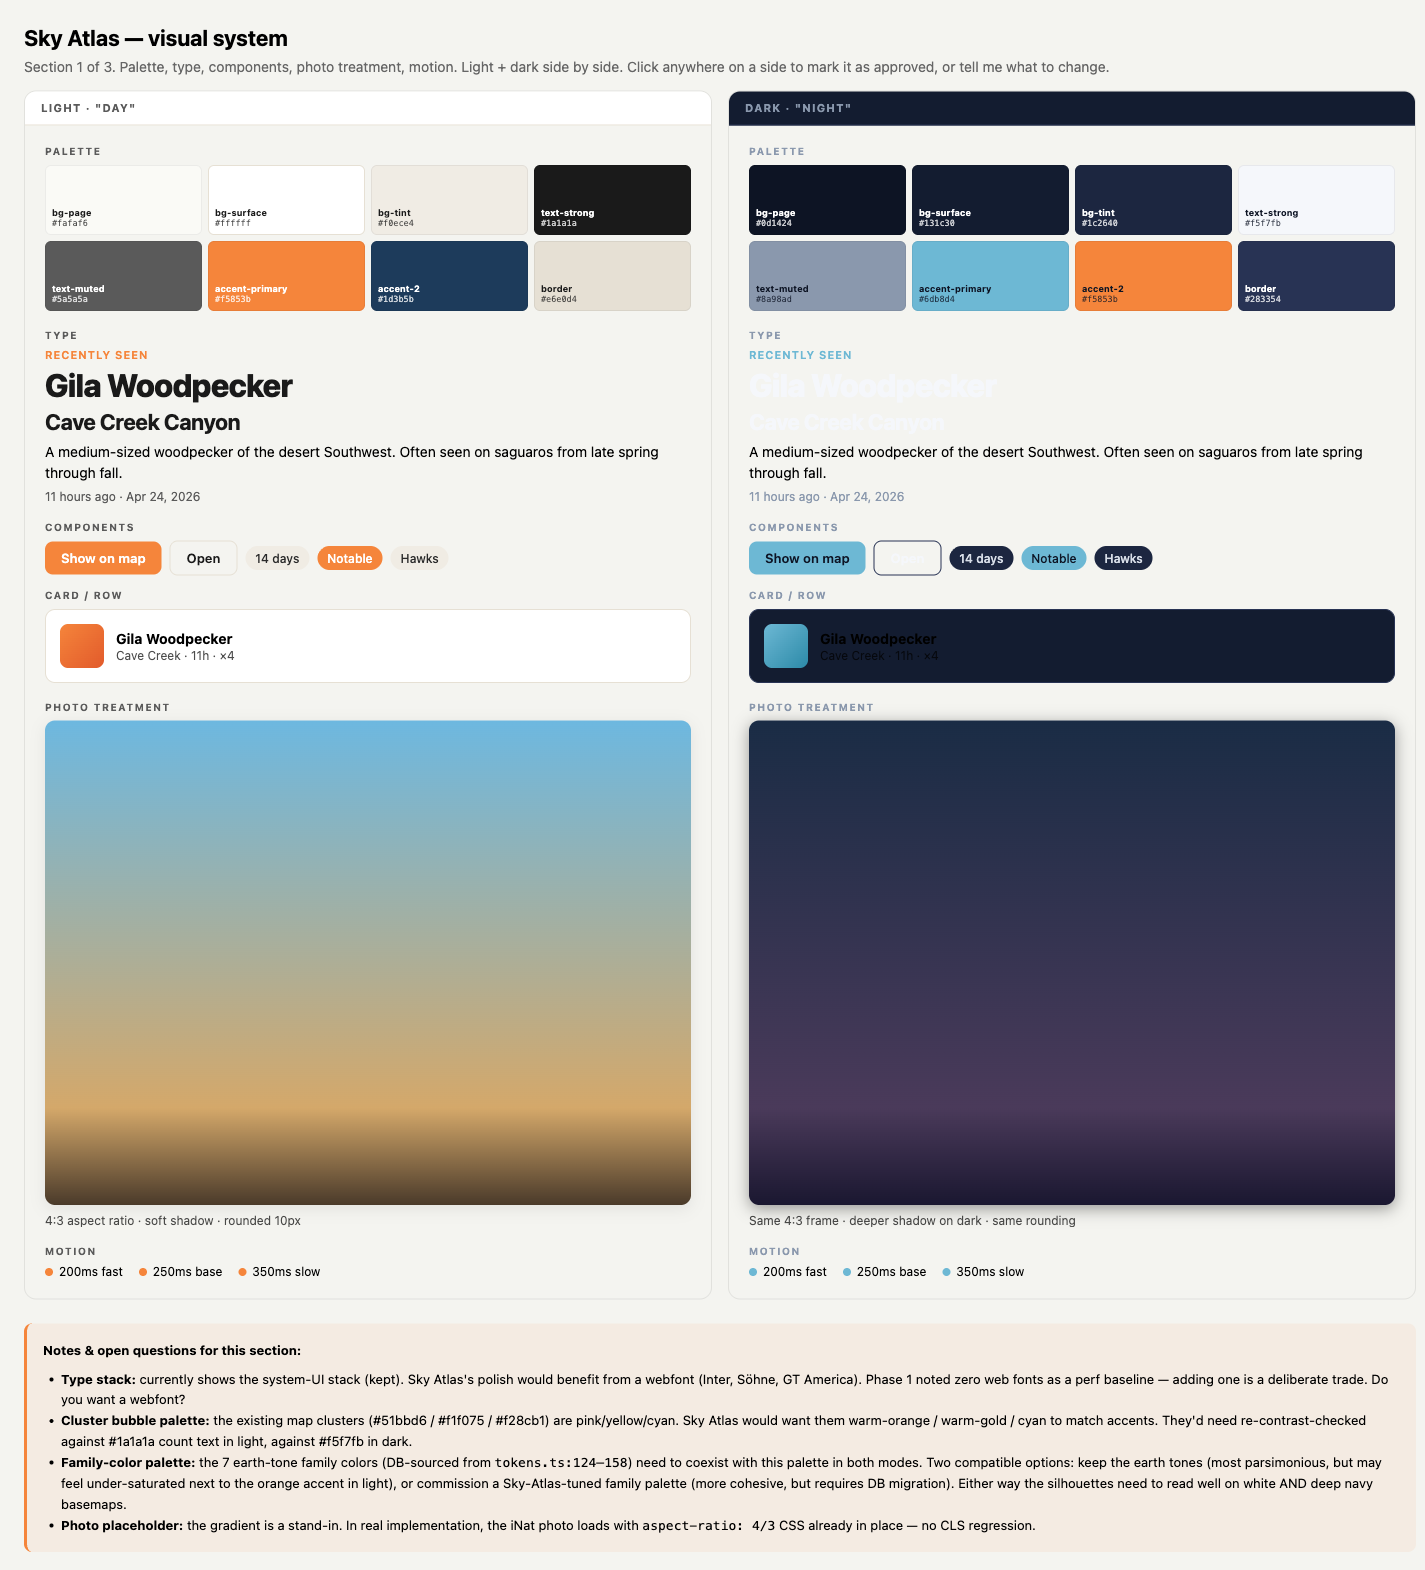
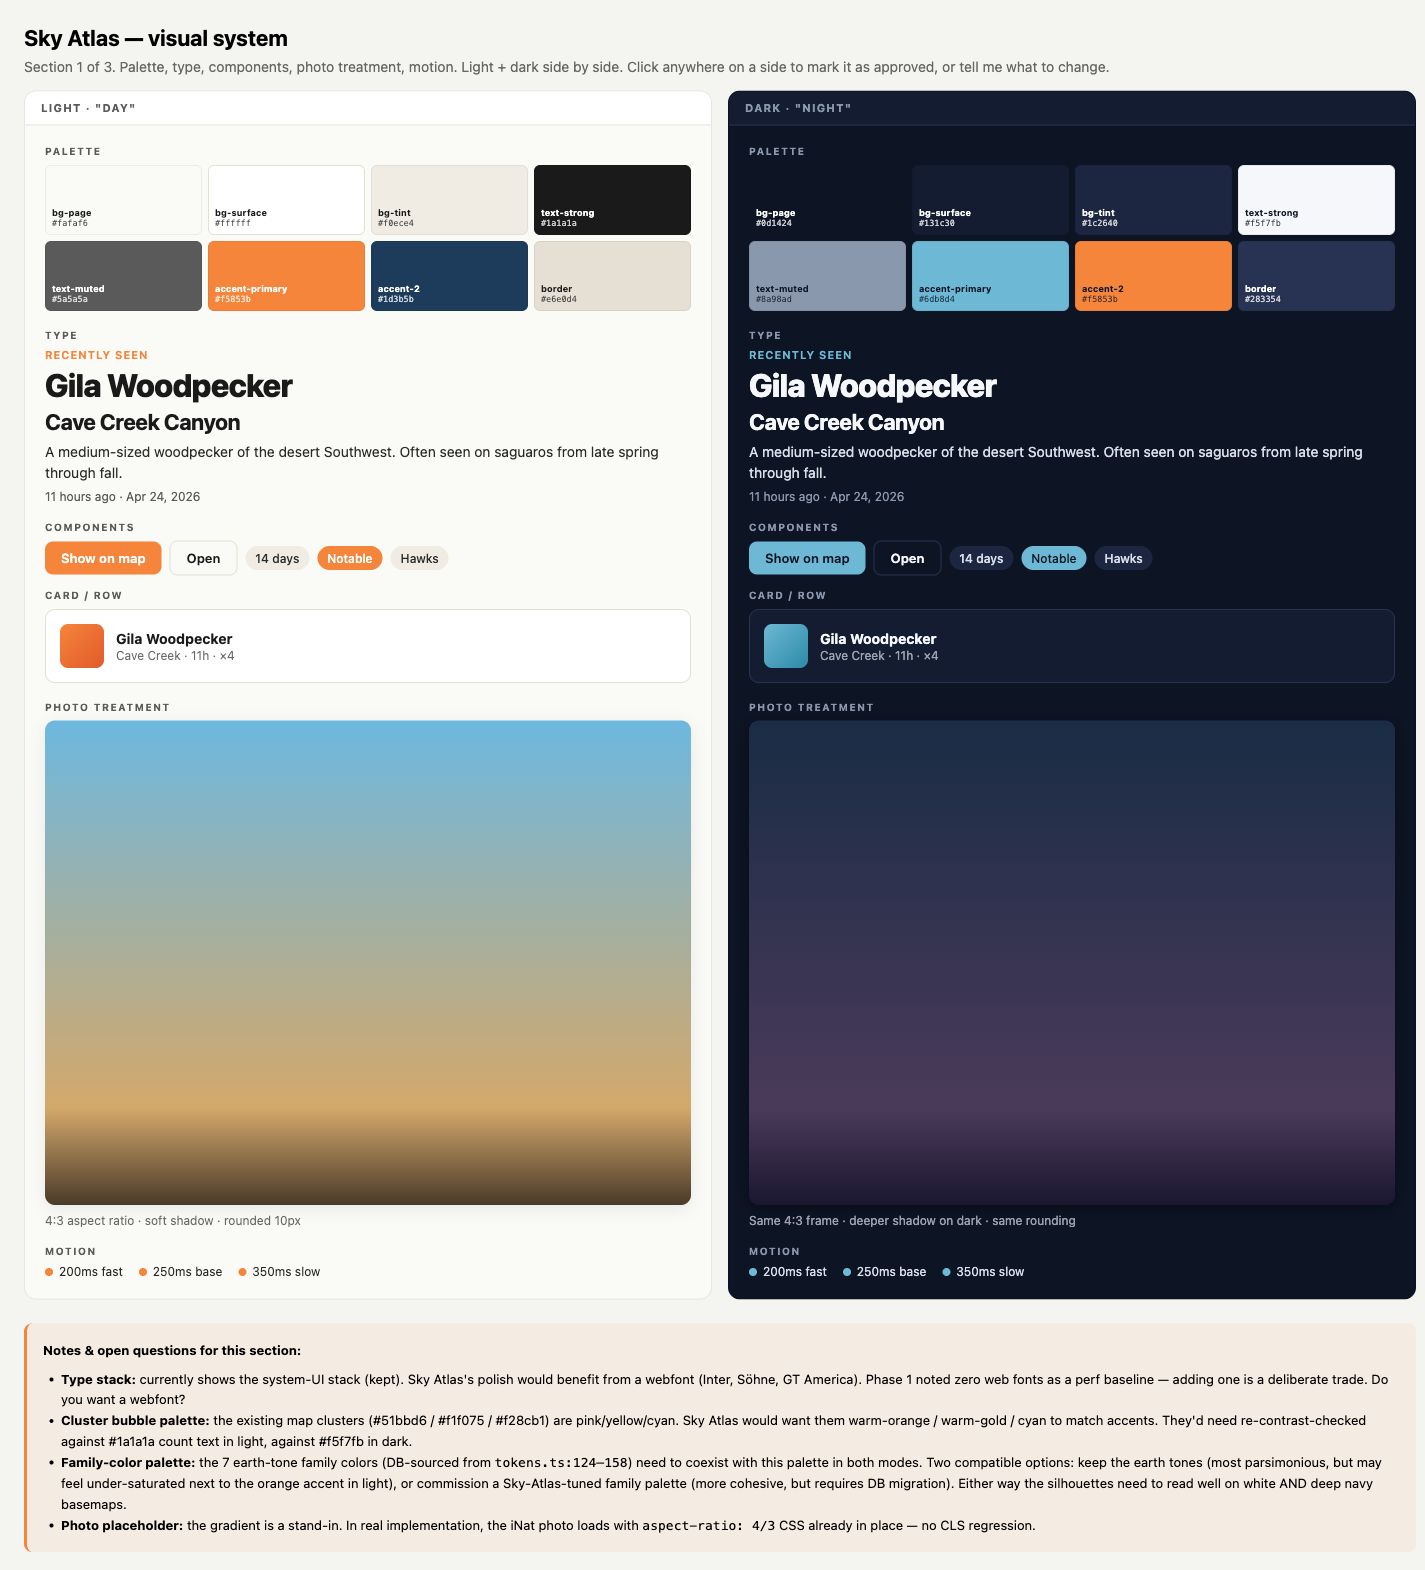
fix(design): system-poster dark-mode contrast (resolves #397 contrast comment) (#399)
* fix(design): system-poster dark-mode contrast (#397 user comment)

The Sky Atlas system poster had a CSS selector bug that caused two
contrast failures in dark mode:

- `.dark .mode-pane { background: var(--da-bg-page); color: ... }`
  used a descendant selector, but the HTML put `.dark` and `.mode-pane`
  on the SAME element (`<div class="card mode-pane dark">`). The
  selector therefore never matched, leaving the dark pane with
  `background: transparent` and inheriting `color: rgb(0,0,0)` (browser
  default black). Symptom: dark pane shows the page-cream background
  through, and all text inside the pane renders as black on dark.

- Same issue for `.light .mode-pane` (also same-element, also
  unmatched). Light mode happened to look acceptable because most child
  elements set their own colors explicitly.

Fix:
- Change `.dark .mode-pane` and `.light .mode-pane` to compound
  selectors `.mode-pane.dark` / `.mode-pane.light`.
- Add explicit `color` on `.card-row .row-name` for both modes (defense
  in depth — the row-name had no own-color and was vulnerable to any
  future cascade gap).
- Re-render `system-poster.png` from the corrected HTML.

Verified via `getComputedStyle`:
- darkPane.bg: was rgba(0,0,0,0) → now rgb(13,20,36)
- darkPane.color: was unset → now rgb(216,222,232)
- darkRowName.color: was rgb(0,0,0) → now rgb(245,247,251)
- All button + chip contrasts unchanged (those rules use real
  descendant relationships and were never affected).
[…]

Pull request: fix(design): system-poster dark-mode contrast (resolves #397 contrast comment)
## Diagrams

CSS specificity bug — the `.dark .mode-pane` selector requires `.dark` to be an ancestor, but the HTML places `.dark` and `.mode-pane` on the same element. Result: the dark-mode pane never gets its background/color rules applied; text falls back to browser-default black on a transparent (cream-show-through) background.

```mermaid
graph LR
    HTML["<div class='card mode-pane dark'>"]
    CSS_BAD[".dark .mode-pane { ... }<br/>(descendant — needs .dark on parent)"]
    CSS_GOOD[".mode-pane.dark { ... }<br/>(compound — same element)"]

    HTML -.->|target| CSS_BAD
    HTML -->|matches| CSS_GOOD

    CSS_BAD -.->|never matches| FAIL["bg: transparent<br/>color: rgb(0,0,0) inherited"]
    CSS_GOOD -->|now matches| WIN["bg: #0d1424<br/>color: #d8dee8 → row-name #f5f7fb"]

    style FAIL fill:#fee
    style WIN fill:#efe
```

## Summary

- **Bug.** Two CSS selectors in `sky-atlas-system.html` used descendant form (`.dark .mode-pane`) but the HTML had `.dark` and `.mode-pane` on the same element. Dark-mode pane was therefore transparent + inheriting browser-default black, surfacing two visible contrast failures: the card-row "Gila Woodpecker" name rendered black-on-dark-navy, and the secondary "Open" button text was unreadable.
[…]

Changed region(s): [[0.494, 0.0624, 1.0, 0.8427], [0.0309, 0.2809, 0.0618, 0.3121]]

diff --git a/docs/design/05-archive/brainstorm-mocks/sky-atlas-system.html b/docs/design/05-archive/brainstorm-mocks/sky-atlas-system.html
@@ -58,7 +58,14 @@
   }
   .mode-body { padding: 20px; }
 
-  .light .mode-pane {
+  /* COMPOUND selectors (no space) — `.light` and `.dark` are on the SAME
+     element as `.mode-pane` (`<div class="card mode-pane dark">`). A
+     descendant selector (`.dark .mode-pane`) would never match. The sibling
+     rules below (`.light .ts-hero`, `.dark .btn-primary`, etc.) correctly
+     use descendant form because those targets ARE descendants of the pane.
+     Don't change `.mode-pane.dark` / `.mode-pane.light` to `.dark .mode-pane`
+     unless you also restructure the HTML to put `.light`/`.dark` on a parent. */
+  .mode-pane.light {
     background: var(--la-bg-page);
     color: var(--la-text-body);
     font-family: -apple-system, BlinkMacSystemFont, "Helvetica Neue", "Inter", sans-serif;
@@ -69,7 +76,7 @@
     border-color: var(--la-border);
   }
 
-  .dark .mode-pane {
+  .mode-pane.dark {
     background: var(--da-bg-page);
     color: var(--da-text-body);
     font-family: -apple-system, BlinkMacSystemFont, "Helvetica Neue", "Inter", sans-serif;
@@ -202,6 +209,8 @@
   }
   .card-row .row-body { flex: 1; min-width: 0; }
   .card-row .row-name { font-weight: 700; font-size: 14px; }
+  .light .card-row .row-name { color: var(--la-text-strong); }
+  .dark .card-row .row-name { color: var(--da-text-strong); }
   .card-row .row-meta { font-size: 12px; opacity: 0.7; margin-top: 2px; }
 
   .photo-frame {